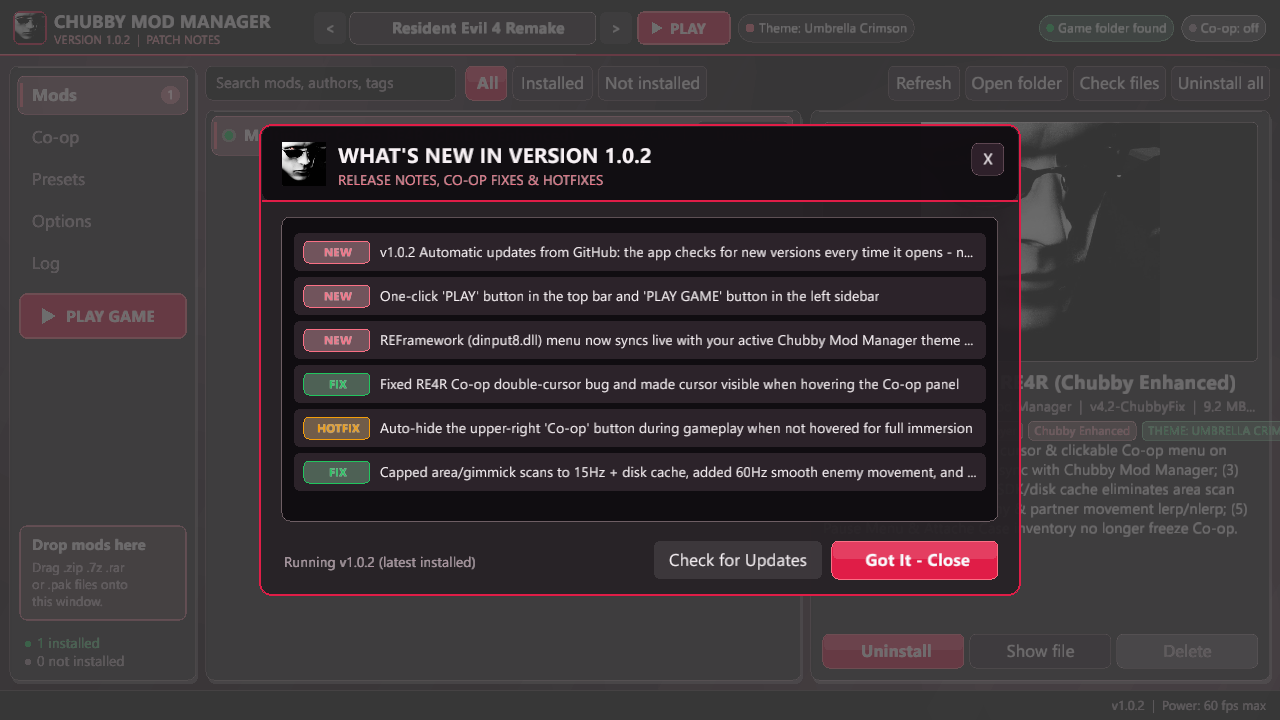
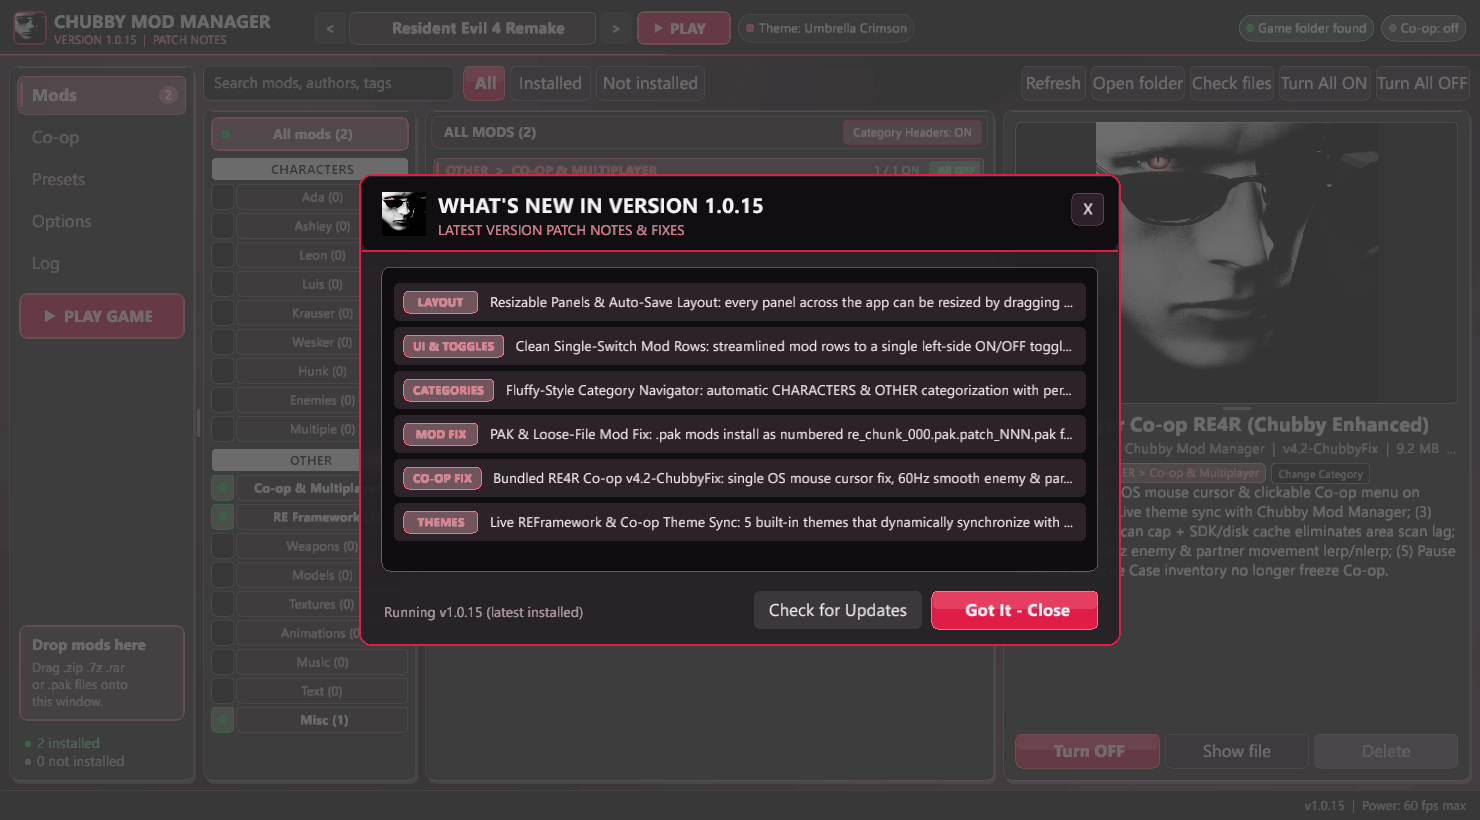
Update all screenshots and README for v1.0.15

diff --git a/README.md b/README.md
@@ -9,7 +9,7 @@
     <img src="https://img.shields.io/badge/Download-Latest_Setup.exe-brightgreen?style=for-the-badge&logo=windows" alt="Download Latest Setup" />
   </a>
   <a href="https://github.com/iiEKiLLeR/chubby-mod-manager-releases/releases">
-    <img src="https://img.shields.io/badge/Releases-v1.0.10-blue?style=for-the-badge" alt="Releases" />
+    <img src="https://img.shields.io/badge/Releases-v1.0.15-blue?style=for-the-badge" alt="Releases" />
   </a>
 </p>
 
@@ -17,10 +17,14 @@
 
 ## ⚡ Highlights & Features
 
+- **📂 Fluffy-Style Category Navigator (`CHARACTERS` & `OTHER`)**: Automatically organizes mods by character (*Leon*, *Ada*, *Ashley*, *Luis*, *Claire*, *Jill*, *Wesker*, etc.) and type (*Co-op & Multiplayer*, *RE Framework*, *Weapons*, *Models*, *Textures*, *Animations*, *Music*, *Misc*) with live active indicators, mod counts, and one-click category reassignment.
+- **🟢 Instant ON / OFF Mod & Category Toggles**: Turn individual mods, entire categories (`All ON` / `All OFF`), or your full library (`Turn All ON` / `Turn All OFF`) on and off with a single click.
+- **📐 Resizable Panels & Auto-Save Layout**: Drag any divider across the Sidebar, Category Navigator, Mod List, Mod Details & Preview, Co-op Center, or Options screen to customize your workspace—your layout saves automatically and stays where you left it.
+- **📦 Full `.pak` & Loose-File Compatibility**: Automatically installs `.pak` archives as numbered `re_chunk_000.pak.patch_NNN.pak` patches with the 5-file `KPKA` dummy PAK barrier and enables `LooseFileLoader_Enabled=true` in `re2_fw_config.txt`.
 - **🎮 One-Click Game Launch (`▶ PLAY`)**: Instantly launch your selected Resident Evil game via Steam or executable directly from the manager.
 - **🧟 RE4R Multiplayer (Chubby Enhanced)**: Comes bundled with the enhanced Resident Evil 4 Remake Co-op mod:
   - **Single OS Mouse Cursor Fix**: Eliminates the annoying double-cursor bug when clicking in-game menus.
-  - **Smooth 60 Hz Enemy & Partner Animation**: No more 10-20 FPS choppy zombie animations on partner screens.
+  - **Smooth 60 Hz Enemy & Partner Animation**: No more 10–20 FPS choppy zombie animations on partner screens.
   - **Immersive In-Game Menu**: Upper-right "Co-op" button smoothly auto-hides during gameplay when not hovered.
   - **Non-Blocking Menus**: Opening inventory or pause menu no longer freezes gameplay for your partner.
   - **Live REFramework & Co-op Theme Sync**: In-game REFramework (`dinput8.dll`) and Co-op menus automatically synchronize colors and modern rounded borders to your chosen theme.
@@ -32,19 +36,24 @@
 
 ## 📸 Screenshots
 
-### Mod Library & Active Manager
+### Mod Library, Category Navigator & Active Toggles
 <p align="center">
-  <img src="screenshots/mods.png" alt="Chubby Mod Manager - Mods Library" width="90%" />
+  <img src="screenshots/mods.png" alt="Chubby Mod Manager - Mods Library & Categories" width="95%" />
 </p>
 
 ### Co-op Host & Network Center
 <p align="center">
-  <img src="screenshots/coop.png" alt="Chubby Mod Manager - Co-op Center" width="90%" />
+  <img src="screenshots/coop.png" alt="Chubby Mod Manager - Co-op Center" width="95%" />
 </p>
 
-### Manager Configuration
+### Manager Configuration & Options
 <p align="center">
-  <img src="screenshots/options.png" alt="Chubby Mod Manager - Options" width="90%" />
+  <img src="screenshots/options.png" alt="Chubby Mod Manager - Options" width="95%" />
+</p>
+
+### What's New & Patch Notes Modal
+<p align="center">
+  <img src="screenshots/patch-notes.png" alt="Chubby Mod Manager - Patch Notes" width="95%" />
 </p>
 
 ---
@@ -72,6 +81,6 @@ Chubby Mod Manager features 5 live-switchable themes that synchronize dynamicall
 1. Download **[Chubby_Mod_Manager_Setup.exe](https://github.com/iiEKiLLeR/chubby-mod-manager-releases/releases/latest/download/Chubby_Mod_Manager_Setup.exe)**.
 2. Run the installer and select your preferred destination folder (or keep the default).
 3. Click **Install**. A desktop shortcut and Start Menu entry will be created.
-4. Launch the manager, enable your mods, and press **PLAY**!
+4. Launch the manager, toggle your mods **ON**, and press **PLAY**!
 
 ---
